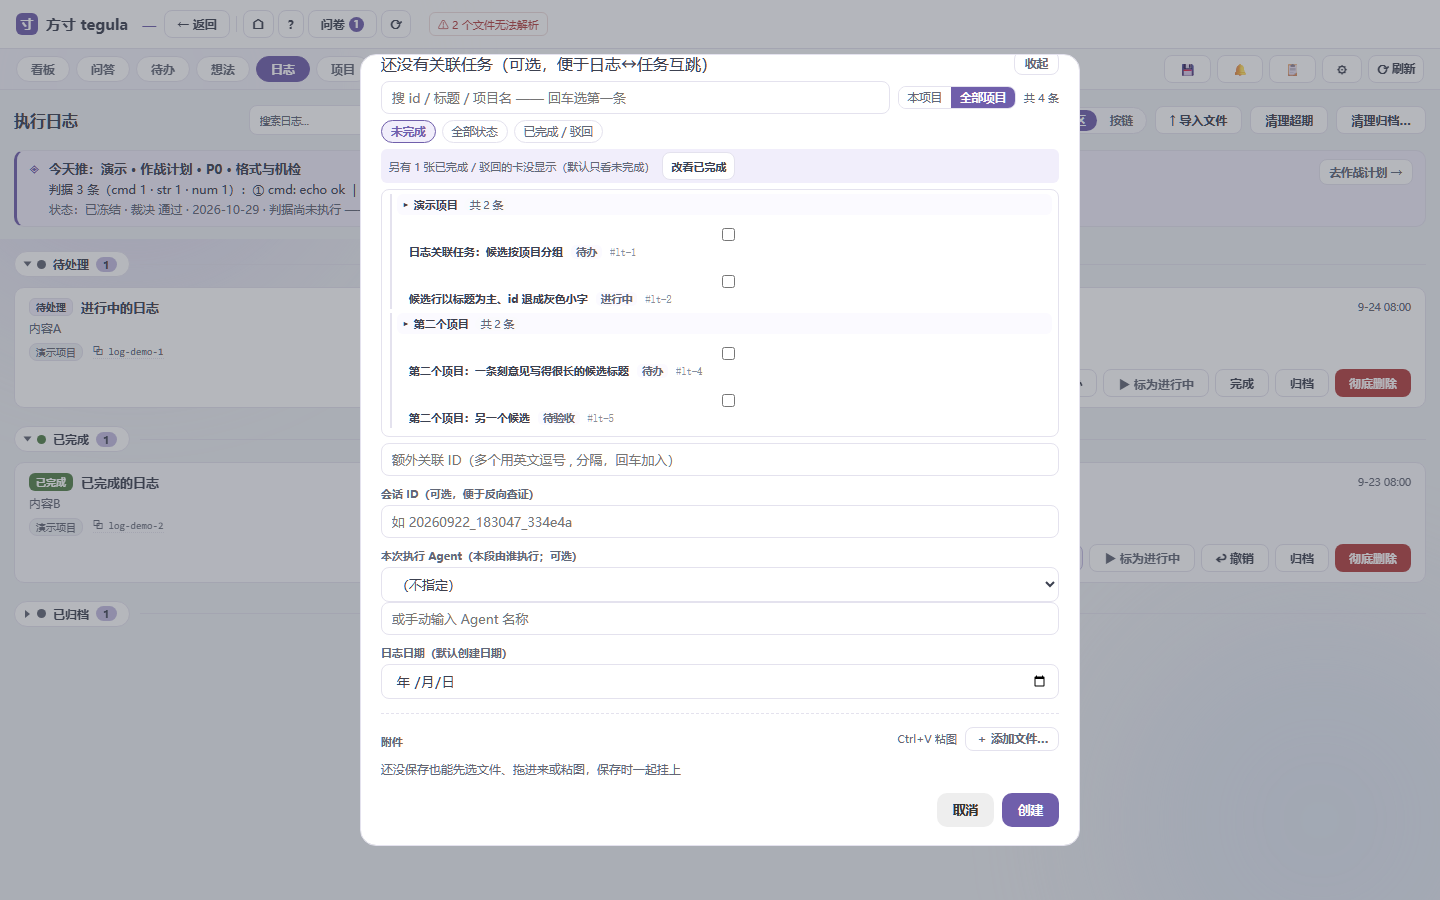
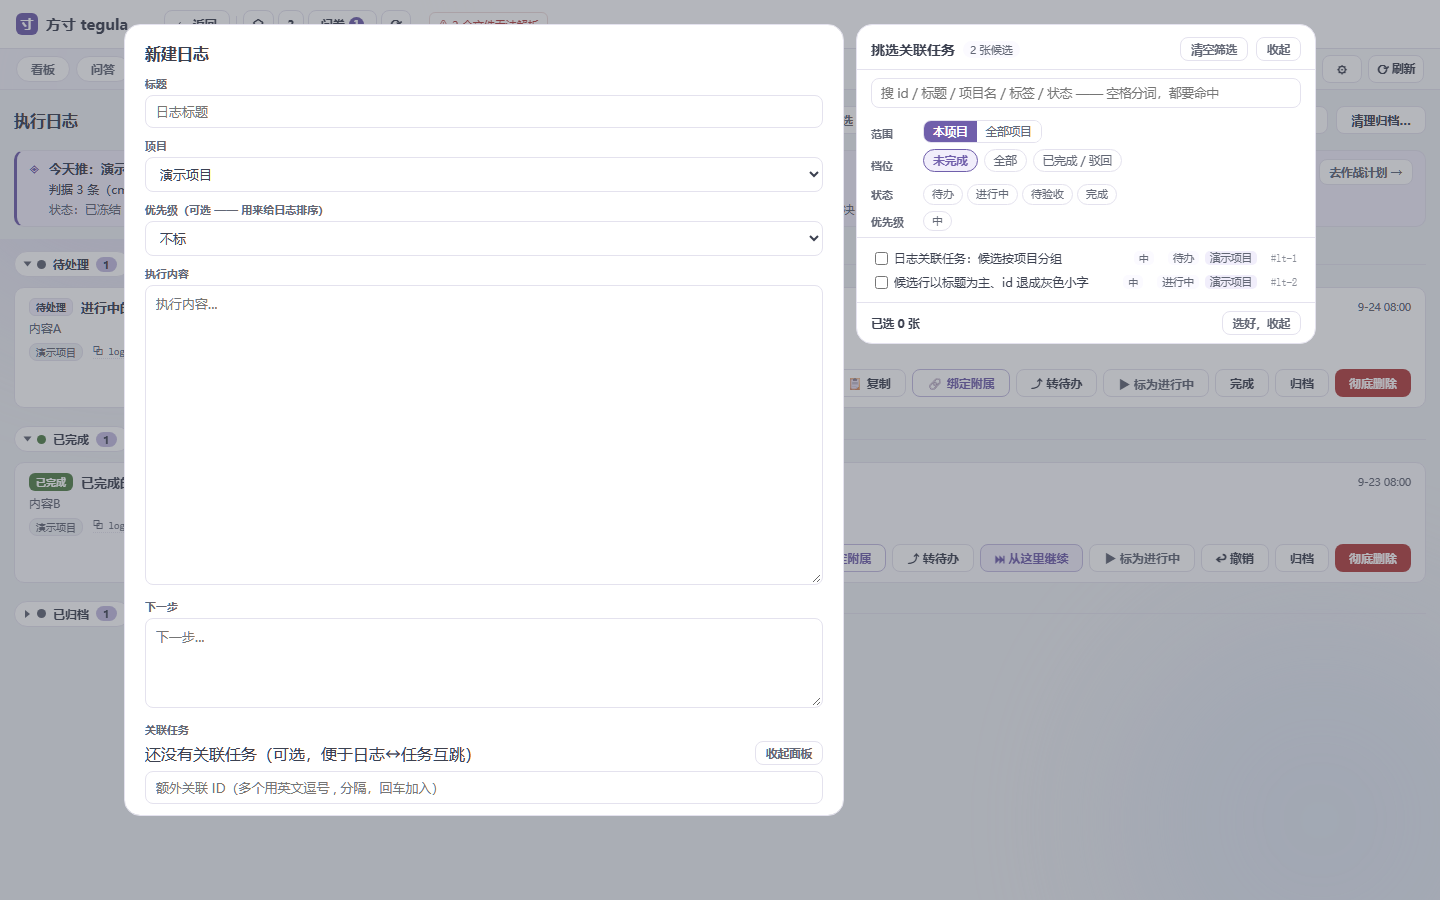
fix(0.6.39): 分栏后 1440 宽下表单被撑到 920 -> 补 max-width 720（两档重拍目检）
截图目检第二遍才发现：窄屏修好、宽屏又坏。断言对这两处一绿到底。

同步开发日志与两张截图（桌面 1440x900 / 窄屏 900x700）

diff --git a/desktop/src/renderer/styles/app.css b/desktop/src/renderer/styles/app.css
@@ -3450,10 +3450,14 @@ button.lpill:hover { border-color: var(--accent-soft); background: var(--tint-2)
 /* ⚠ 2026-11-15（窄屏截图目检抓到）：上面那条只收面板，**表单还是死宽 720** ——
    900×700（Electron 最小窗口）下 720 + 12 + 380 = 1112 > 900-48，
    于是整块浮层**从右边被切掉**，挑选面板右侧的按钮点不到。
-   正解不是再调一个魔法宽度，而是让两栏**按比例分**：表单 flex:1 可缩、面板 flex:0 1 460 有下限。
-   这样从 900 到 4K 都不会溢出，也不需要第三档断点。 */
+   正解不是再调一个魔法宽度，而是让两栏**按比例分**：表单可缩但有上限、面板可缩有下限。
+   这样从 900 到 4K 都不会溢出，也不需要第三档断点。
+   ⚠ `max-width: 720px` 是**必须的**：只写 `flex: 1 1 520px` 时表单会随着窗口变宽一路撑开
+     （1440 下实测铺到 920，比它设计宽度宽 200px，输入框一行长到读不下去）。
+     给上限之后「窗口宽 → 表单保持 720、面板吃余量」，这才是原设计意图。 */
+#log-edit-overlay:has(#log-task-panel) { padding: 24px; }
 #log-edit-overlay:has(#log-task-panel) #log-edit-modal {
-  width: auto; flex: 1 1 520px; min-width: 0;
+  width: auto; flex: 1 1 520px; max-width: 720px; min-width: 0;
 }
 #log-edit-overlay:has(#log-task-panel) #log-task-panel {
   flex: 0 1 460px; min-width: 300px;
